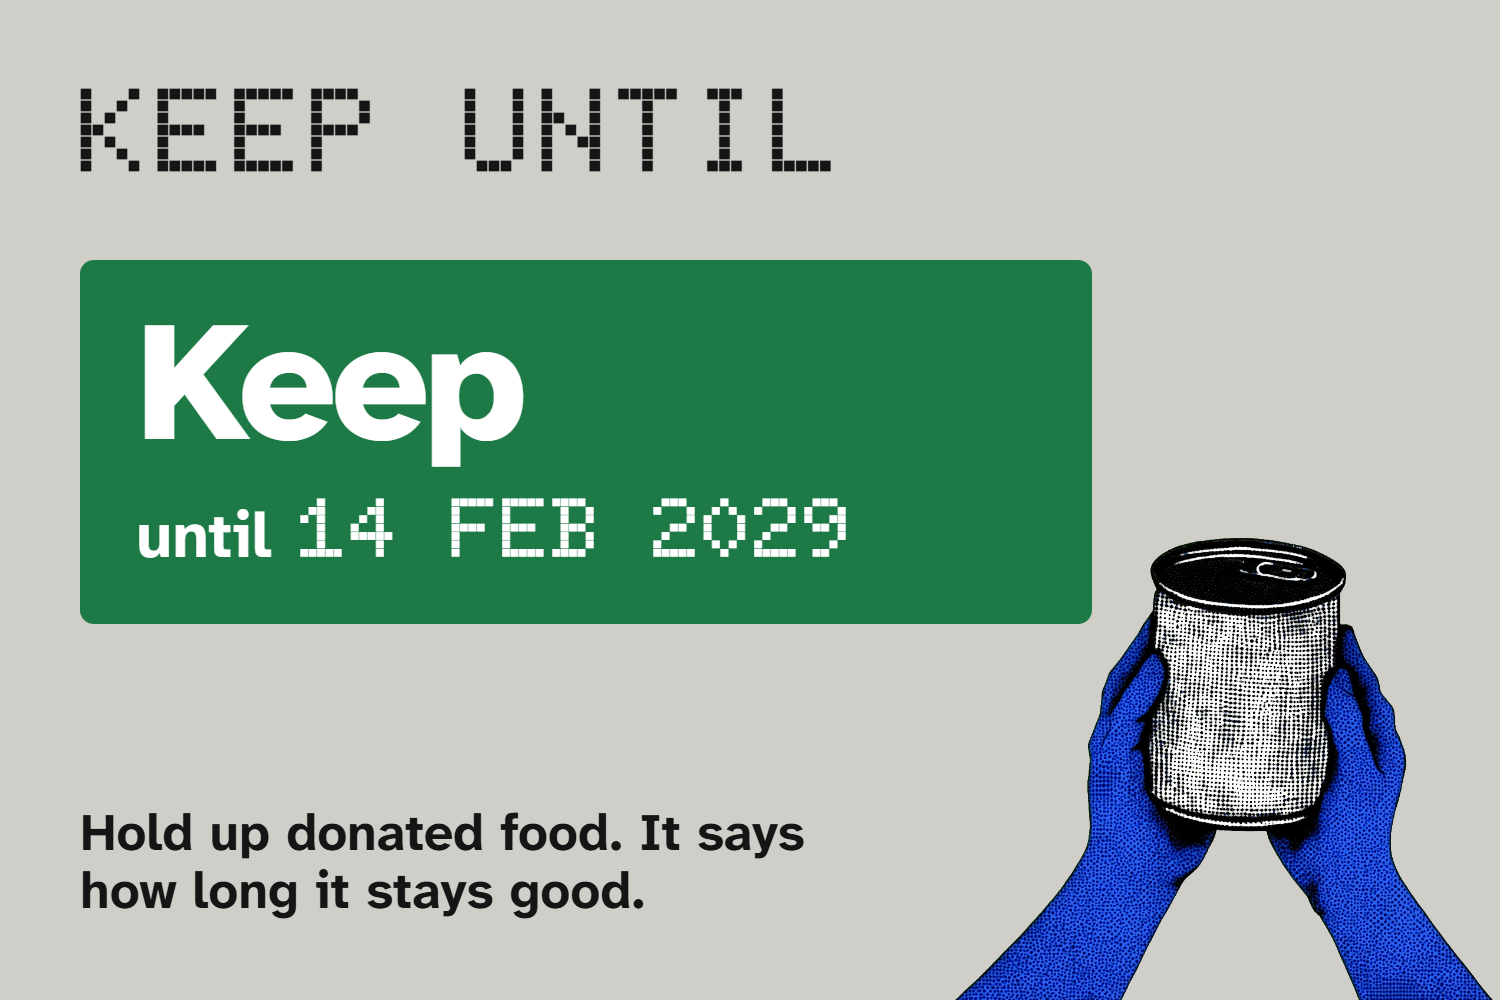
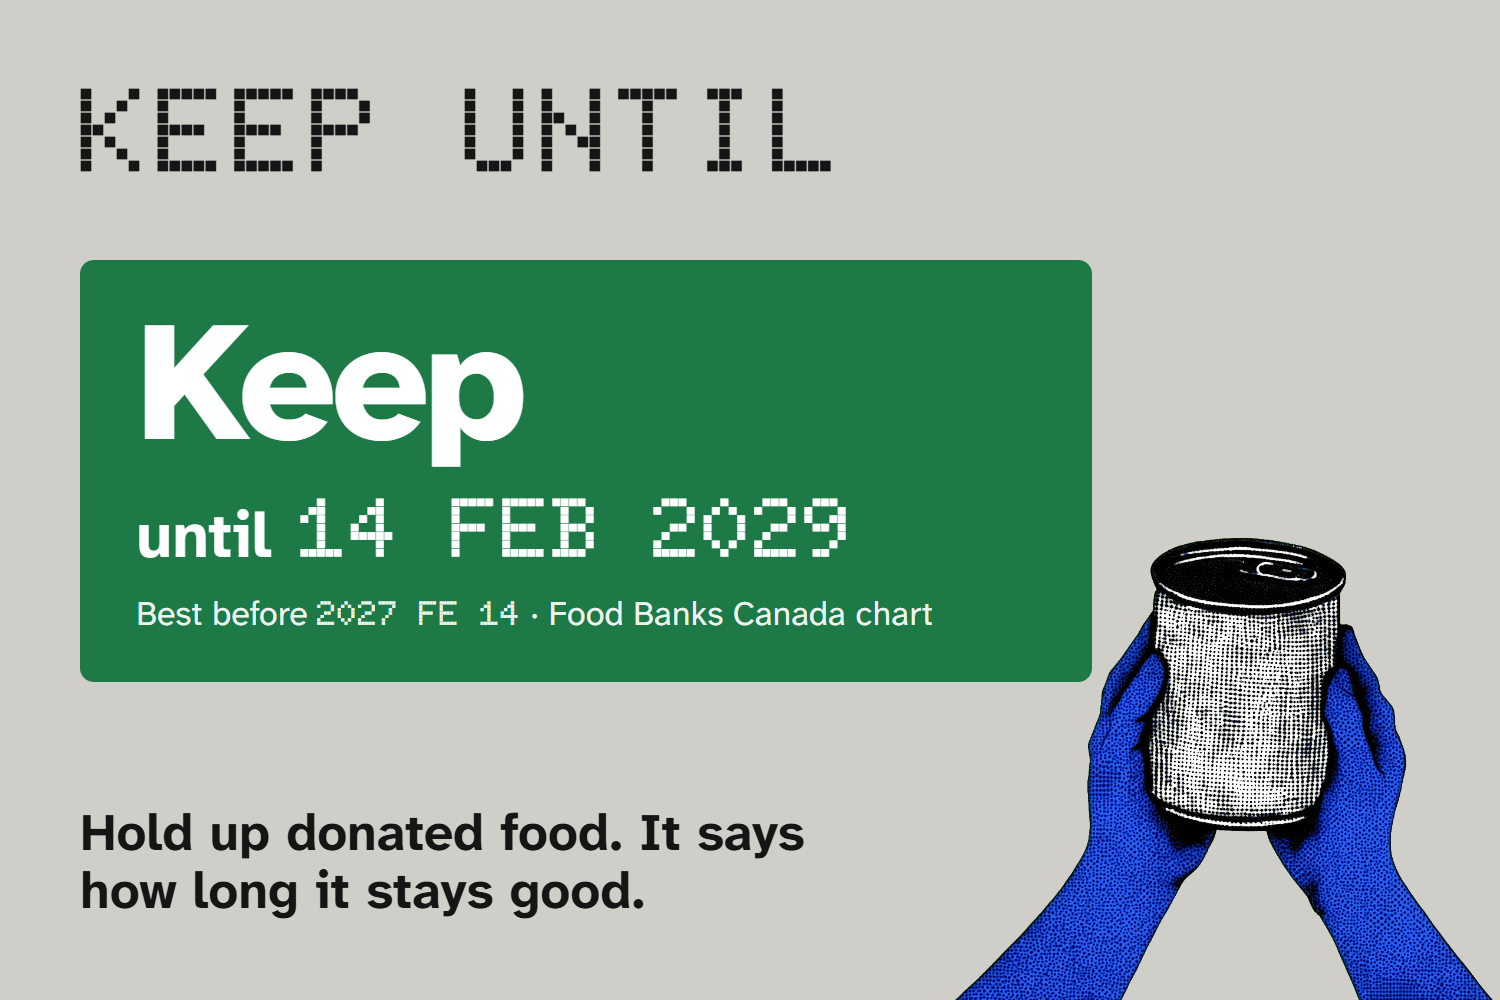
Thumbnail shows the printed best-before under the keep-until date, so the chart's extra two years read at a glance

Changed region(s): [[0.0307, 0.589, 0.736, 0.682]]

diff --git a/scripts/gallery/thumbnail.py b/scripts/gallery/thumbnail.py
@@ -16,12 +16,13 @@ body {{ margin: 0; width: 1500px; height: 1000px; background: #d0cec8; font-fami
 .band {{ position: absolute; left: 80px; top: 260px; width: 900px; background: #1d7a46; color: #fff; border-radius: 14px; padding: 46px 56px; }}
 .word {{ font-size: 170px; font-weight: 800; line-height: .9; letter-spacing: -.03em; }}
 .until {{ font-size: 64px; font-weight: 700; margin-top: 18px; white-space: nowrap; }}
+.bb {{ font-size: 34px; margin-top: 14px; opacity: .92; }} .bb span {{ font-family: D; font-weight: 900; }}
 .until span {{ font-family: D; font-weight: 900; font-size: 84px; margin-left: 28px; }}
 .line {{ position: absolute; left: 80px; bottom: 80px; font-size: 52px; font-weight: 700; max-width: 22ch; line-height: 1.12; }}
 .art {{ position: absolute; right: -10px; bottom: -6px; width: 560px; }}
 </style></head><body>
 <div class="mark">KEEP UNTIL</div>
-<div class="band"><div class="word">Keep</div><div class="until">until<span>14 FEB 2029</span></div></div>
+<div class="band"><div class="word">Keep</div><div class="until">until<span>14 FEB 2029</span></div><div class="bb">Best before <span>2027 FE 14</span> &middot; Food Banks Canada chart</div></div>
 <div class="line">Hold up donated food. It says how long it stays good.</div>
 <img class="art" src="{ART}/hands-can.webp">
 </body></html>"""
